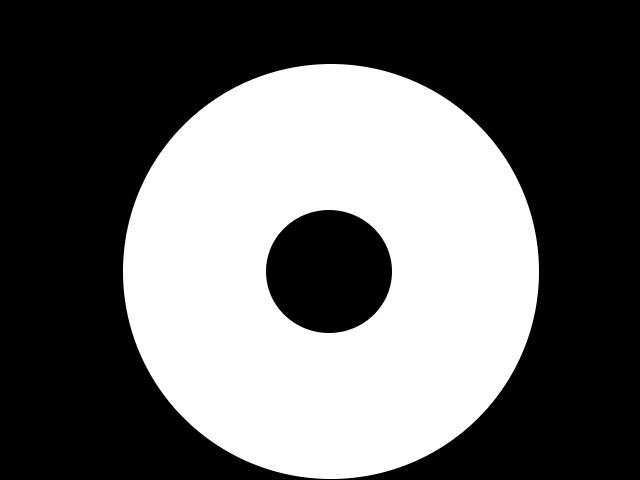
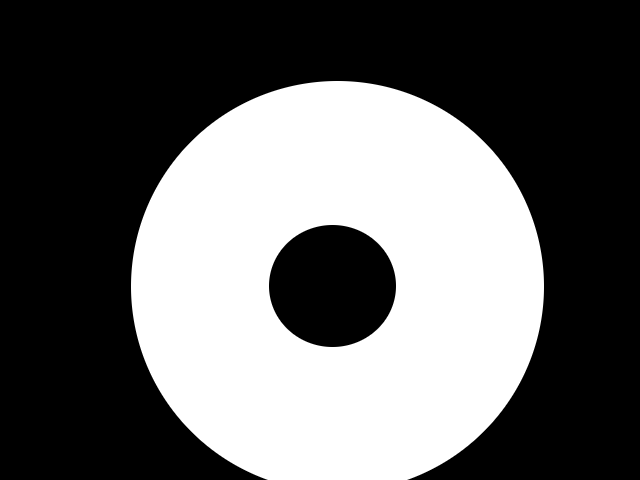
up

diff --git a/src/bearingCollector.cpp b/src/bearingCollector.cpp
@@ -232,7 +232,7 @@ void cameraCallback(const sensor_msgs::ImageConstPtr& img){
   tools::getCentroids(&purged_blobs, &centroids);
 
   // prepare the image showing the blobs
-  cv::Mat blobs_image(image.rows, image.cols, CV_8UC3, cv::Scalar(0,0,0));
+  cv::Mat blobs_image(image.rows, image.cols, CV_8UC3, cv::Scalar(33,33,33));
   tools::blobsPainter(&blobs_image, &purged_blobs);
   
   // save the original image

diff --git a/README.md b/README.md
@@ -4,10 +4,15 @@ A set of ROS nodes to gather landmarks bearings from an omnicam while moving a r
 The actual gathering node.
 Reads images from the /cam_stream topic and robotposes from the /pose topic.
 When the robot has moved (or rotated) enough, the gathering action is triggered.
-Gathering consists in:
-	  look for landmarks in the image (colored blobs)
-	  detect landmarks centroids
-	  store the angles that those blobs form with respect to the center of the image (that's because we assume we are using an omnicam)
+Gathering consists of:
+    look for landmarks in the image (colored blobs)
+    detect landmarks centroids
+    store the angles that those blobs form with respect to the center of the image (that's because we assume we are using an omnicam)
+The output is a directory containing:
+    the captured images
+    the corresponding filtered images with a cross on each detected landmark
+    images showing the blobs associated to each captured image
+    a text file associating each image with the corresponding robot pose and the list of the bearings detected from that pose
 
 [CameraStream]
 Captures images from a camera and publishes them to the /cam_stream topic
@@ -20,3 +25,7 @@ User interface that allows to drive the robot by the use of a joypad. This publi
 Its peculiarity is that it can be customized (I.E. select which axes/button does what) by editing a simple text file.
 This is very nice feature if your joypad has a broken lever :D
 If you want to get infos about your joypad's axes/buttons numeration, you may find useful a tool named "jstest".
+
+[ConvertOutput]
+This is not a ROS node, but is here because it is used for transforming the output of this program in a format that is readable for my other project "BearingSlam".
+A transformation matrix is applied to the robot poses to take into account the relative position of the sensor with respect to the center of the robot (the recorded poses are referred to the robot, not to the camera).
